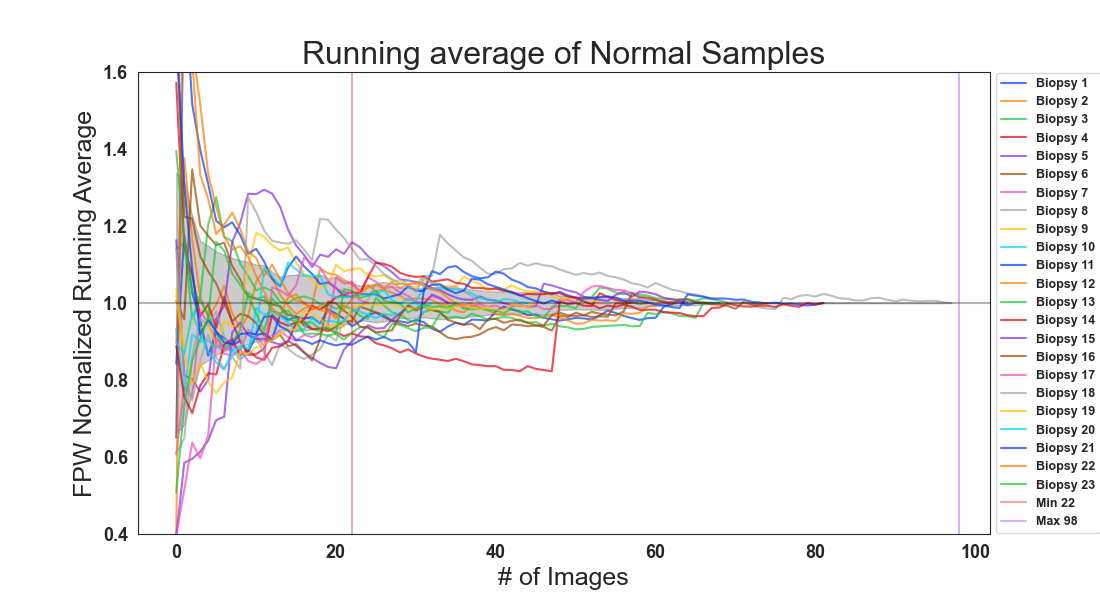
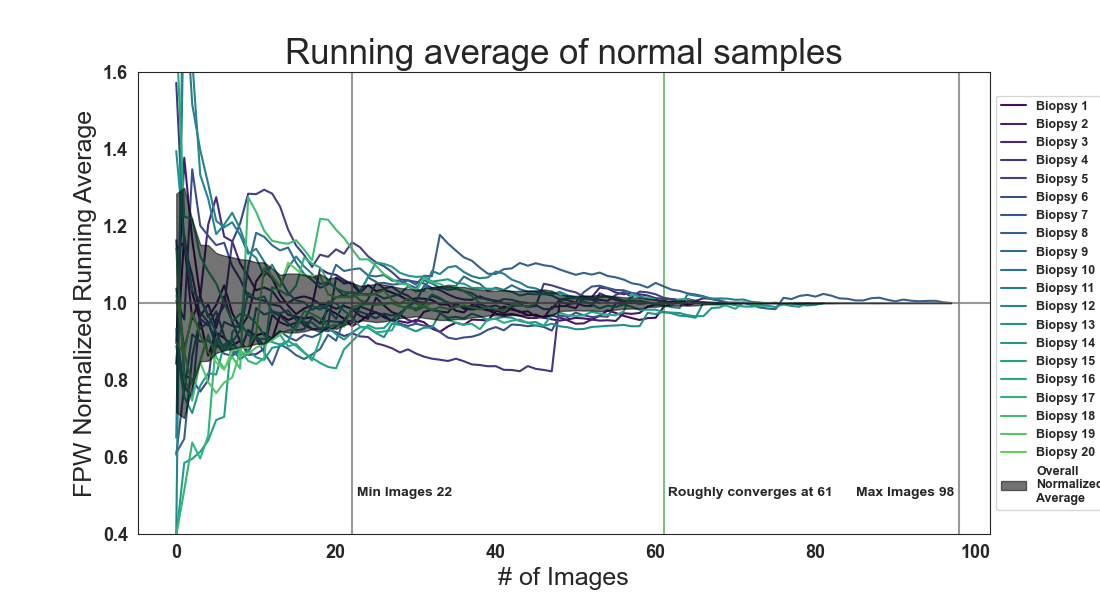
fixed figures and environment file

diff --git a/figure.py b/figure.py
@@ -40,13 +40,15 @@ parser.add_argument(
 parser.add_argument(
     '--running_average_file', type=str, default='dataset/fabry/prediction/running_average_individual.json', help='File with all of the file measurements')
 parser.add_argument(
-    '--running_average_num', type=int, default=5, help='Number of biopsies to show for running average')
+    '--running_average_num', type=int, default=20, help='Number of biopsies to show for running average')
 parser.add_argument(
-    '--running_average_offset', type=int, default=10, help='File offset (think of this of seed)')
+    '--running_average_offset', type=int, default=0, help='File offset (think of this of seed)')
 parser.add_argument(
-    '--running_average_title', type=str, default='Running average of Fabry Samples', help='Title of the figure to generate')
+    '--running_average_title', type=str, default='Running average of fabry samples', help='Title of the figure to generate')
 parser.add_argument(
     '--running_average_use_overall_average',  help='Use the overall average of normalized averages', action='store_true')
+parser.add_argument(
+    '--running_average_show_convergence',  help='Show the point where values closely converge to the mean', action='store_true')
 parser.add_argument(
     '--running_average_hide_individual',  help='Hide the individual biopsy running averages', action='store_true')
 args = parser.parse_args()
@@ -56,13 +58,13 @@ args = parser.parse_args()
 if args.running_average:
     print('Generating Running Average')
     sns.set_style('white')
-    sns.set_palette('bright', 100)
+    sns.set_palette('deep', 100)
 
     csfont = {'fontname': 'Arial'}
     hfont = {'fontname': 'Arial'}
     rc('font', family='serif', serif=['Arial'], weight='bold')
     rc('text', usetex=False)
-    rc('axes', titlesize=23)
+    rc('axes', titlesize=25)
     rc('axes', labelsize=18)
     rc('xtick', labelsize=13)
     rc('ytick', labelsize=13)
@@ -74,9 +76,10 @@ if args.running_average:
     data = data['data']
     fig = plt.figure(figsize=(11, 6))
     ax = fig.add_subplot(111)
-    colors = sns.color_palette('bright', len(data) + 2)  # [(0, 0, 0)] * (len(data) + 2)
+    colors = sns.color_palette('viridis', len(data) + 2)  # [(0, 0, 0)] * (len(data) + 2)
 
     counts = []
+    y_lim = [0.4, 1.6]
     data = data[args.running_average_offset:]
     max_length = max([len(values) for values in data[:args.running_average_num]])  # get longest biopsy 
     x_vals = list(range(max_length))
@@ -103,7 +106,7 @@ if args.running_average:
 
         if not args.running_average_hide_individual:
             ax.plot(list(range(len(data[runs]))), average_list, color=colors[runs % len(
-                colors)], label='Biopsy {}'.format(runs + 1), alpha=0.7)  # linestyle=SHAPES[runs % len(SHAPES)][1])
+                colors)], label='Biopsy {}'.format(runs + 1), alpha=1.0)  # linestyle=SHAPES[runs % len(SHAPES)][1])
 
     if args.running_average_use_overall_average:
         norm_avg = overall_average / (np.max(overall_counts)).astype(np.float32)
@@ -112,22 +115,32 @@ if args.running_average:
         # move zero centered normalized value back to the location 1.0 on the graph (with the above 0.0 centered deltas)
         norm_avg_p = norm_avg + (1.0 - last_avg)  
         norm_avg_m = (1.0 - norm_avg) + last_avg
-        ax.fill_between(x_vals, norm_avg_m, norm_avg_p, color='black', alpha=0.2)
+
+        # let's find the location where the normalized first converges to 0
+        if args.running_average_show_convergence:
+            for i, v in enumerate(norm_avg_p):
+                if abs(v - 1.0) < 0.01:  # epsilon as second number
+                    ax.axvline(x=(i + 1), color='green', alpha=0.5)
+                    ax.text((i + 1) + 0.1, y_lim[0] + 0.1, ' Roughly converges at {}'.format(i + 1), rotation=0)
+                    break
+
+        ax.fill_between(x_vals, norm_avg_m, norm_avg_p, color='black', alpha=0.55, zorder=3, label='Overall\nNormalized\nAverage')
         # ax.plot(x_vals, norm_avg, color='black', linewidth=4, linestyle='dashed', label='Overall\nNormalized\nAverage')
 
-    ax.axhline(y=1, color=(0, 0, 0), alpha=0.3)
+    ax.axhline(y=1, color='gray', alpha=0.8)
 
     # add the min and max count lines
-    ax.axvline(x=np.min(counts), color=colors[runs + 1], alpha=0.35,
-               linestyle='-', label='Min {}'.format(np.min(counts)))
-    ax.axvline(x=np.max(counts), color=colors[runs + 2], alpha=0.35,
-               linestyle='-', label='Max {}'.format(np.max(counts)))
-
+    ax.axvline(x=np.min(counts), color='gray', alpha=0.8)
+    ax.text(np.min(counts) + 0.1, y_lim[0] + 0.1, ' Min Images {}'.format(np.min(counts)), rotation=0)
+    ax.axvline(x=np.max(counts), color='gray', alpha=0.8,
+               linestyle='-')
+    ax.text(np.max(counts) - 0.1, y_lim[0] + 0.1, 'Max Images {} '.format(np.max(counts)), rotation=0, horizontalalignment='right')
+    
     ax.set_ylabel('FPW Normalized Running Average', **csfont)
     ax.set_xlabel('# of Images', **csfont)
     ax.set_title(args.running_average_title, **csfont)
-    ax.set_ylim([0.4, 1.6])
+    ax.set_ylim(y_lim)
     ax.legend(frameon=True, loc='center left', bbox_to_anchor=(1, 0.5))
-    fig.savefig('running_average.png')
+    fig.savefig('running_average.tiff')
 
 print('Exiting...')

diff --git a/README.md b/README.md
@@ -30,10 +30,11 @@ cd fpw-dl-v1
 ```
 
 ### Create the anaconda environment and download dependencies
-This will create a new anaconda environment called `fpw-dl` and download all of the dependencies. NOTE: this package requires usage of Keras 2.2.X and Tensorflow 1.15 (CUDA 10.0, CUDNN 7.6). The model and weights were trained before v2. So other versions of TF will not work. If other dependencies are not found for your distribution, then please modify the `environment.yml` dependencies.
+This will create a new anaconda environment called `fpw-dl` and download all of the dependencies. NOTE: this package requires usage of Keras 2.2.4 and Tensorflow 1.15 (CUDA 10.0, CUDNN 7.6). The model and weights were trained before v2. So other versions of TF will not work. If other dependencies are not found for your distribution, then please modify the `environment.yml` dependencies.
 ```bash
 conda env create --file environment.yml
 ```
+*Note for **Windows** users: if you're having issues activating on command prompt/powershell and aren't familiar with Anaconda, I recommend just using the Anaconda Prompt (search it in the windows search bar)*
 
 ### Activate the environment
 ```bash
@@ -61,13 +62,18 @@ There are certain flags that might be useful, if you've already processed the da
 
 
 ## Generating Figures
-After analyzing a dataset you may use the `figure.py` script to generate some figures using matplotlib. For example, use the following command to generate the running average graph for normal biopsies after running the `analysis.py` on the normal dataset.
+After analyzing a dataset you may use the `figure.py` script to generate some figures using matplotlib. For example, use the following command to generate the running average graphs after running the `analysis.py` on the datasets.
 ```bash
-# note: the running_average_num is a MAX biopsy count. Does not guarantee that biopsy count 
-python figure.py --running_average --running_average_file dataset/normal/prediction/running_average_individual.json --running_average_num 35 --running_average_offset 0 --running_average_title "Running average of Normal Samples" --running_average_use_overall_average
+# note: the running_average_num is a MAX biopsy count. Does not guarantee that biopsy count
+
+# figure for fabry dataset
+python figure.py --running_average --running_average_file dataset/fabry/prediction/running_average_individual.json --running_average_num 20 --running_average_offset 0 --running_average_title "Running average of fabry samples" --running_average_use_overall_average --running_average_show_convergence
+
+# figure for normal dataset
+python figure.py --running_average --running_average_file dataset/normal/prediction/running_average_individual.json --running_average_num 20 --running_average_offset 0 --running_average_title "Running average of normal samples" --running_average_use_overall_average --running_average_show_convergence
 ```
 That command will produce something similar to. This graph is particularly useful for noise analysis and understanding, roughly, how many images need to be sampled per biopsy for the FPW averages to converge.
-![Running average of normal biopsies (images/running_average_normal.png)](images/running_average_normal.png)
+|![Running average of normal biopsies (images/running_average_normal.png)](images/running_average_normal.png)|![Running average of fabry biopsies (images/running_average_fabry.png)](images/running_average_fabry.png)|
 Please use `python figure.py --help` for more options.
 
 
